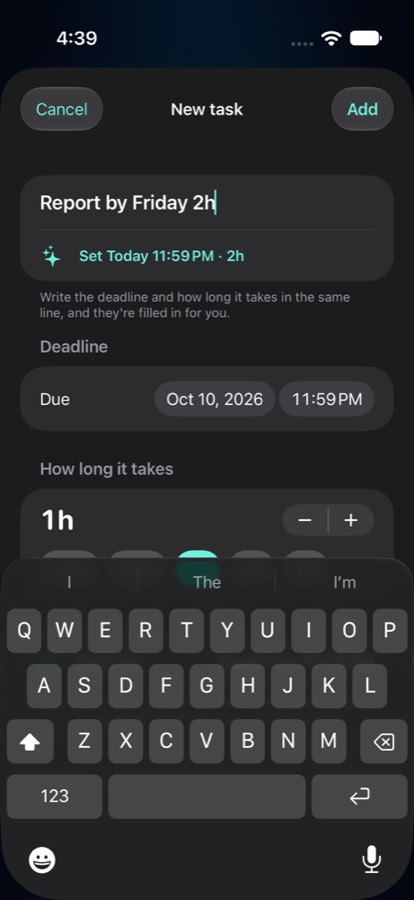
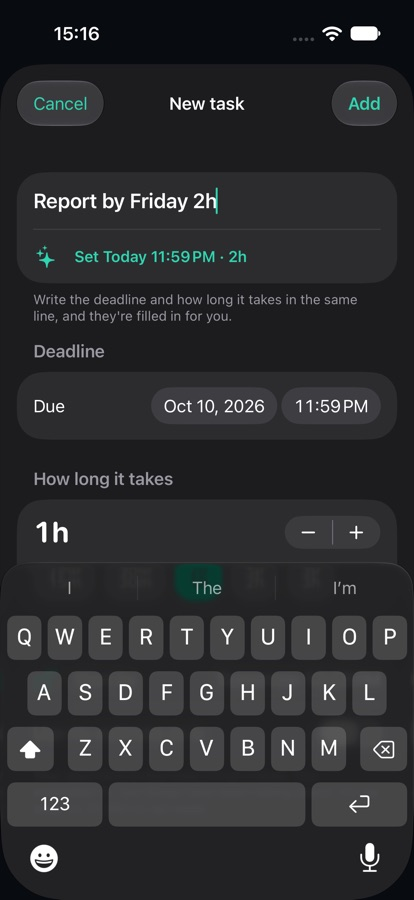
docs: 見た目の方針と、新しい画面の一覧を記録

diff --git a/docs/screenshots/README.md b/docs/screenshots/README.md
@@ -1,22 +1,16 @@
 # 画面の一覧
 
-2026-10-09 時点の画面です。UI テストがシミュレータ(iPhone Air、iOS 27.0)で撮ったもので、見本データを使っています。
-
-撮り直すときは、UI テストを回してから添付を書き出します。手順は [開発の手順](../engineering/development.md) にあります。
-
-## 今日(もう1つの見た目、検討中)
-
-オーナーから「グラデーションとガラスは、いかにも AI が良いと思っている見た目だ」という指摘を受けて、作り直している版です。単色、太い枠、沈むボタン、錠前のキャラクターで作り、質感ではなく動きで見せます。開発用の構成で、起動引数 `-uiStyle playful` を付けると切り替わります。
+2026-10-09 時点の画面です。見た目は、単色、太い枠、沈むボタン、錠前のキャラクターで作っています(最初はグラデーションとガラスで作りましたが、オーナーの指摘を受けて作り直しました)。
 
 キャラクターは、状態によって表情と動きが変わります(まばたき、呼吸、ロックが近いと震える、ロック中は掛け金を閉じる)。静止画では動きは伝わりません。
 
-| 次のロックまで | ロック中(目標) | ロック中(タスク) | 今日は自由 |
-|---|---|---|---|
-| ![余裕があるときの、掛け金の開いた錠前](playful-countdown.jpg) | ![ロック中の、掛け金を閉じた錠前](playful-locked.jpg) | ![タスクでロック中の画面](playful-task.jpg) | ![今日はもうロックしない、うとうとしている錠前](playful-free.jpg) |
+UI テストがシミュレータ(iPhone 17、iOS 27.0)で撮ったもので、見本データを使っています。
 
-## 今日(最初の見た目)
+撮り直すときは、UI テストを回してから添付を書き出します。手順は [開発の手順](../engineering/development.md) にあります。
 
-ロックの状態によって、いちばん上の表示と配色が変わります。
+## 今日
+
+ロックの状態によって、キャラクターの表情と色、せりふが変わります。
 
 | 次のロックまで | ロック中(目標) | ロック中(タスクに着手したあと) | 今日は自由 |
 |---|---|---|---|
@@ -28,7 +22,7 @@
 |---|---|
 | ![残り時間を輪で出した計測の画面](focus-running.jpg) | ![記録したことを伝える画面](focus-finished.jpg) |
 
-今日の分に達したときの演出(波紋、光の粒、振動)は、まだ撮れていません。
+今日の分に達したときの演出(波紋、紙吹雪、振動)は、まだ撮れていません。
 
 ## 予定と振り返り
 

diff --git a/docs/product/decision-log.md b/docs/product/decision-log.md
@@ -175,3 +175,16 @@
 | まず「今日」の画面だけを作り直し、起動引数で切り替えて見比べる | 方向が合っているかを、全体に広げる前に確かめる | オーナーと合意 |
 
 分かっている弱点: Duolingo のキャラクターは、専門のアニメーターが Rive で作っている。このアプリの錠前は、丸と線をコードで描いたもので、絵としての質は及ばない。
+
+### 全体への適用(同日)
+
+オーナーが新しい「今日」の画面を見たうえで、背景やボタンにまだグラデーションとガラスが残っていると指摘しました。「今日」以外の画面と、OS 標準のタブバーがそのままだったためです。
+
+| 決定 | 理由 | 決めた人 |
+|---|---|---|
+| 新しい見た目を既定にし、古い見た目(流れるグラデーション、ガラスのカード、発光)を全部消す | 見比べる段階は終わり。2つを残すと、古いほうが目に入り続ける | オーナーの指摘を受けて Claude |
+| 集中、予定、振り返り、初回設定、完了の確認、ウィジェットも同じ流儀に作り直す | 画面ごとに見た目が違うと、直した意味がない | Claude |
+| OS 標準のタブバーをやめ、単色のものを自前で置く | iOS 26 の標準はガラスで、この方針に合わない | Claude |
+| ウィジェットは、状態の色でべた塗りにする | 背景のグラデーションをなくすため | Claude |
+| 編集画面と設定は、OS 標準のフォームのままにする | 入力の部品は標準が一番使いやすい。上部のボタンは OS が描くので、ガラスのまま残る | Claude。気になる場合は自前に替えられる |
+| 外観は、いまは暗い色に固定したまま | 色は明るい外観にも対応させてあるが、明るい外観での確認をしていない | Claude |

diff --git a/docs/engineering/architecture.md b/docs/engineering/architecture.md
@@ -30,7 +30,7 @@
 | | `LiveActivityClient` | 集中の計測を Live Activity として出す窓口 | `Domain`、`SharedCore`、Dependencies |
 | | `SharedCore` | 拡張機能にも入れる部分。中身は下の表 | `Domain`、Apple 標準のみ |
 | | `WidgetUI` | ウィジェットと Live Activity の見た目、その文言カタログ。ウィジェットの見た目をアプリの中に並べる開発用の画面(`WidgetGallery`。デバッグビルドのみ) | `Domain`、`SharedCore`、`DesignSystem` |
-| | `DesignSystem` | 色(`Mood`)、背景、カード、ボタン、進み具合の輪、時間の表示、主役の大きな文字(`Font.hero`)、達成時の演出(Metal のシェーダーによる波紋、光の粒、Core Haptics の振動) | `Domain`、SwiftUI |
+| | `DesignSystem` | 単色の配色(`Playful`、面と縁の組 `PlayfulTone`)、太い枠のカード、押すと沈むボタン、進み具合のバーと輪、吹き出し、錠前のキャラクター(`LockMascot`)、時間の表示、主役の大きな文字(`Font.hero`)、達成時の演出(Metal のシェーダーによる波紋、紙吹雪、Core Haptics の振動)。グラデーション、ぼかし、発光は使わない | `Domain`、SwiftUI |
 
 開発用の画面 `WidgetGallery` は、アプリ本体(`App/Sources/TodoApp.swift`)が直接出します。`AppFeature` は `WidgetUI` に依存しません。見本データは、`AppFeature` の `SampleWorlds` から受け取ります。
 

diff --git a/docs/engineering/development.md b/docs/engineering/development.md
@@ -142,8 +142,6 @@ xcrun xcresulttool export attachments --path build/reports/UITest.xcresult --out
 
 `-sampleTab widgets` を付けると、アプリの画面の代わりに、ウィジェットの一覧(`WidgetGallery`)が出ます。`fresh` を除く見本データの状態ごとに、小、横長、ロック画面の長方形と1行を並べます。ホーム画面にウィジェットを置かなくても、配置を確かめられます。
 
-起動引数 `-uiStyle playful` を付けると、「今日」の画面が、もう1つの見た目(単色、太い枠、沈むボタン、錠前のキャラクター)に切り替わります。2つの見た目を見比べるためのもので、どちらかに決めたら、この引数はなくします。
-
 - 本物のウィジェットと同じ View を、同じくらいの大きさの枠に入れている。枠と背景は OS のものを真似ただけなので、細部は実物と違う
 - `-sampleData` の値は使わない。いつも、すべての状態を並べる
 - 「未設定」(写しがない)の状態は出ない

diff --git a/CLAUDE.md b/CLAUDE.md
@@ -81,6 +81,13 @@ docs/                 仕様、設計、調査
 - コメントは「なぜ」を書く。「何をしているか」はコードで分かるようにする。
 - アクセシビリティ(VoiceOver のラベル、Dynamic Type、視差効果を減らす設定)に対応する。
 
+## 見た目の方針
+
+- 単色で塗る。グラデーション、ぼかし(ガラス)、発光、影は使わない。オーナーが「いかにも AI が良いと思っている見た目」として退けた。
+- 手本は Duolingo。質感ではなく、動き(押すと沈む、弾む、キャラクターの表情)で楽しく見せる。
+- 色は `Playful` の中から選ぶ。ボタンは `.chunky…` のスタイル、カードは `.chunkyCard()` を使う。
+- 見た目を変える前に、オーナーの好みを確かめる。推測で決めない。
+
 ## スキーム
 
 | スキーム | 用途 | 違い |
